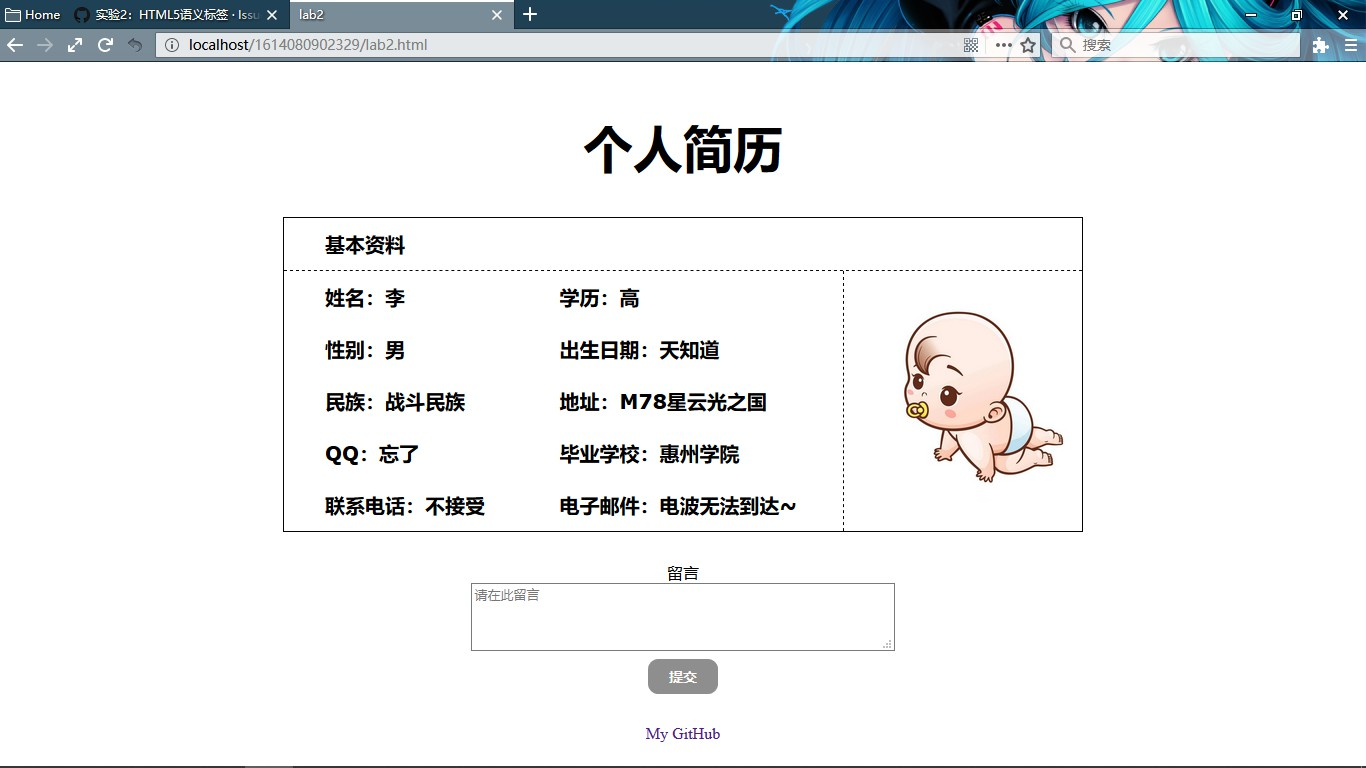
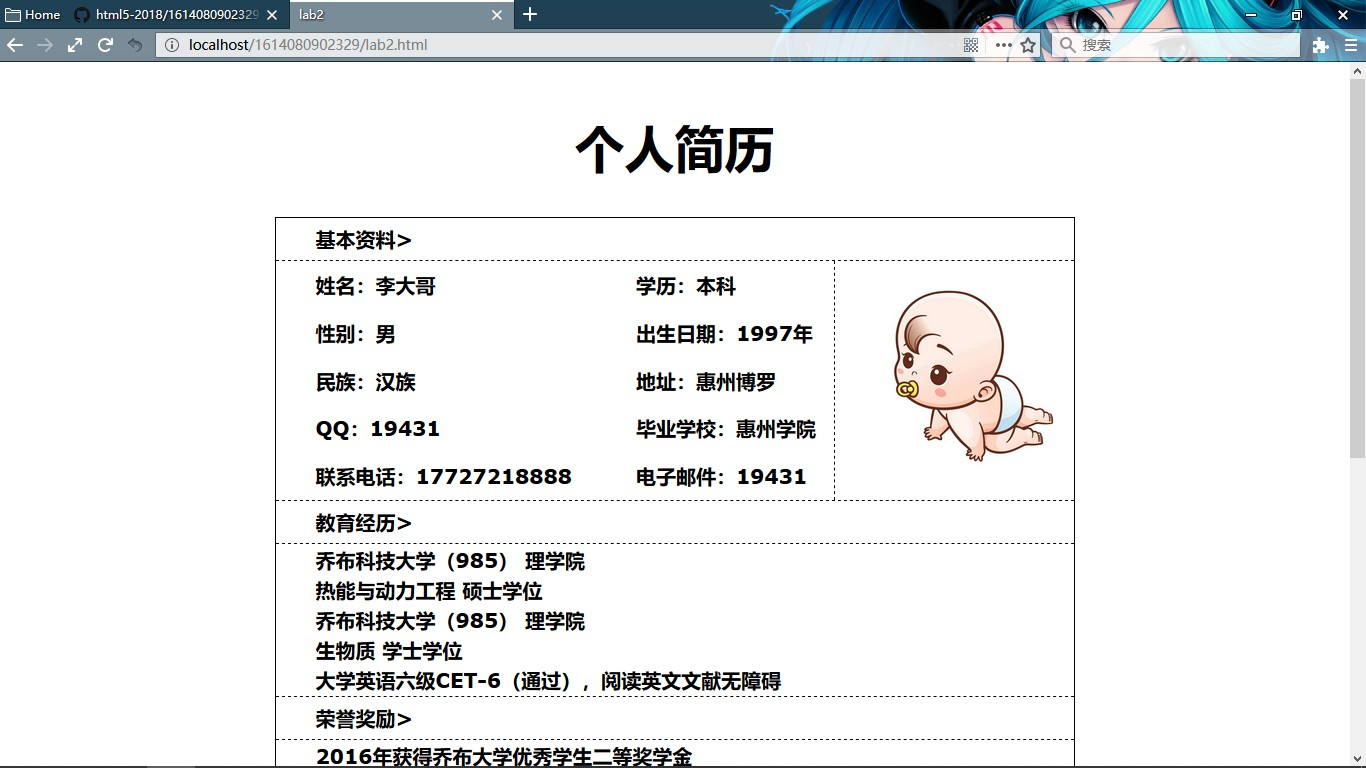
#2 update

diff --git a/1614080902329/lab2.html b/1614080902329/lab2.html
@@ -9,30 +9,93 @@
     <table cellspacing="0">
         <caption>个人简历</caption>
         <tr >
-            <td colspan="3" class="content-title">基本资料</td>
+            <td colspan="3" class="content-title">基本资料></td>
         </tr>
         <tr>
-            <td>姓名：李</td>
-            <td>学历：高</td>
+            <td>姓名：李大哥</td>
+            <td>学历：本科</td>
             <td rowspan="5" class="content-pic">
                 <img src="img/pic.jpg">
             </td>
         </tr>
         <tr>
             <td>性别：男</td>
-            <td>出生日期：天知道</td>
+            <td>出生日期：1997年</td>
         </tr>
         <tr>
-            <td>民族：战斗民族</td>
-            <td>地址：M78星云光之国</td>
+            <td>民族：汉族</td>
+            <td>地址：惠州博罗</td>
         </tr>
         <tr>
-            <td>QQ：忘了</td>
+            <td>QQ：19431</td>
             <td>毕业学校：惠州学院</td>
         </tr>
         <tr>
-            <td>联系电话：不接受</td>
-            <td>电子邮件：电波无法到达~</td>
+            <td>联系电话：17727218888</td>
+            <td>电子邮件：19431</td>
+        </tr>
+
+        <tr >
+            <td colspan="3" class="content-title bor-top">教育经历></td>
+        </tr>
+        <tr>
+            <td colspan="3" rowspan="5">
+                乔布科技大学（985） 理学院<br/>
+                热能与动力工程 硕士学位<br/>
+                乔布科技大学（985） 理学院<br/>
+                生物质 学士学位<br/>
+                大学英语六级CET-6（通过），阅读英文文献无障碍<br/>
+            </td>
+        </tr>
+        <tr>
+        </tr>
+        <tr>
+        </tr>
+        <tr>
+        </tr>
+        <tr>
+        </tr>
+
+        <tr >
+            <td colspan="3" class="content-title bor-top">荣誉奖励></td>
+        </tr>
+        <tr>
+            <td colspan="3" rowspan="4">
+                2016年获得乔布大学优秀学生二等奖学金<br/>
+                2017年乔布大学优秀毕业生<br/>
+                2018年乔布市理工科人文知识竞赛（优胜奖）<br/>
+            </td>
+        </tr>
+        <tr>
+        </tr>
+        <tr>
+        </tr>
+        <tr>
+        </tr>
+
+        <tr >
+            <td colspan="3" class="content-title bor-top">社会经历></td>
+        </tr>
+        <tr>
+            <td colspan="3" rowspan="3">
+                乔布冷机股份有限公司（设备测试员）2016-2017<br/>
+                乔布大学魔术社（干事（魔术指导））2017-2018
+            </td>
+        </tr>
+        <tr>
+        </tr>
+        <tr>
+        </tr>
+
+        <td colspan="3" class="content-title bor-top">特长爱好></td>
+        </tr>
+        <tr>
+            <td colspan="3" rowspan="2">
+                骑行，登山<br/>
+                爱好体育运动，游泳、篮球
+            </td>
+        </tr>
+        <tr>
         </tr>
     </table>
     <form id="com" action="#" method="get">

diff --git a/1614080902329/css/lab2-css.css b/1614080902329/css/lab2-css.css
@@ -9,11 +9,11 @@ table caption {
     padding-bottom: 30px;
 }
 tbody {
-    text-indent: 2em;
     font: bold 20px/1.5em verdana;
 }
 td {
-    height: 50px;
+    padding-left: 2em;
+    height: 2em;
 }
 .content-title {
     border-bottom: 1px dashed #050505;
@@ -58,4 +58,7 @@ a {
     width: 8em;
     text-decoration: none;
     font-size: 16px;
+}
+.bor-top {
+    border-top: 1px dashed #050505;
 }

diff --git a/1614080902329/Report/report2.md b/1614080902329/Report/report2.md
@@ -14,30 +14,93 @@
 <table cellspacing="0">
     <caption>个人简历</caption>
     <tr >
-        <td colspan="3" class="content-title">基本资料</td>
+        <td colspan="3" class="content-title">基本资料></td>
     </tr>
     <tr>
-        <td>姓名：李</td>
-        <td>学历：高</td>
+        <td>姓名：李大哥</td>
+        <td>学历：本科</td>
         <td rowspan="5" class="content-pic">
             <img src="img/pic.jpg">
         </td>
     </tr>
     <tr>
         <td>性别：男</td>
-        <td>出生日期：天知道</td>
+        <td>出生日期：1997年</td>
     </tr>
     <tr>
-        <td>民族：战斗民族</td>
-        <td>地址：M78星云光之国</td>
+        <td>民族：汉族</td>
+        <td>地址：惠州博罗</td>
     </tr>
     <tr>
-        <td>QQ：忘了</td>
+        <td>QQ：19431</td>
         <td>毕业学校：惠州学院</td>
     </tr>
     <tr>
-        <td>联系电话：不接受</td>
-        <td>电子邮件：电波无法到达~</td>
+        <td>联系电话：17727218888</td>
+        <td>电子邮件：19431</td>
+    </tr>
+
+    <tr >
+        <td colspan="3" class="content-title bor-top">教育经历></td>
+    </tr>
+    <tr>
+        <td colspan="3" rowspan="5">
+            乔布科技大学（985） 理学院<br/>
+            热能与动力工程 硕士学位<br/>
+            乔布科技大学（985） 理学院<br/>
+            生物质 学士学位<br/>
+            大学英语六级CET-6（通过），阅读英文文献无障碍<br/>
+        </td>
+    </tr>
+    <tr>
+    </tr>
+    <tr>
+    </tr>
+    <tr>
+    </tr>
+    <tr>
+    </tr>
+
+    <tr >
+        <td colspan="3" class="content-title bor-top">荣誉奖励></td>
+    </tr>
+    <tr>
+        <td colspan="3" rowspan="4">
+            2016年获得乔布大学优秀学生二等奖学金<br/>
+            2017年乔布大学优秀毕业生<br/>
+            2018年乔布市理工科人文知识竞赛（优胜奖）<br/>
+        </td>
+    </tr>
+    <tr>
+    </tr>
+    <tr>
+    </tr>
+    <tr>
+    </tr>
+
+    <tr >
+        <td colspan="3" class="content-title bor-top">社会经历></td>
+    </tr>
+    <tr>
+        <td colspan="3" rowspan="3">
+            乔布冷机股份有限公司（设备测试员）2016-2017<br/>
+            乔布大学魔术社（干事（魔术指导））2017-2018
+        </td>
+    </tr>
+    <tr>
+    </tr>
+    <tr>
+    </tr>
+
+    <td colspan="3" class="content-title bor-top">特长爱好></td>
+    </tr>
+    <tr>
+        <td colspan="3" rowspan="2">
+            骑行，登山<br/>
+            爱好体育运动，游泳、篮球
+        </td>
+    </tr>
+    <tr>
     </tr>
 </table>
 ```
@@ -69,11 +132,11 @@ table caption {
     padding-bottom: 30px;
 }
 tbody {
-    text-indent: 2em;
     font: bold 20px/1.5em verdana;
 }
 td {
-    height: 50px;
+    padding-left: 2em;
+    height: 2em;
 }
 .content-title {
     border-bottom: 1px dashed #050505;
@@ -119,11 +182,16 @@ a {
     text-decoration: none;
     font-size: 16px;
 }
+.bor-top {
+    border-top: 1px dashed #050505;
+}
 ```
 
 ## 3.实验结果
-* 实验截图
-![实验截图](https://github.com/OrangeHap/html5-2018/blob/master/1614080902329/Report/img/lab2_1.jpg)
+* 实验截图1
+![实验截图]()
+* 实验截图2
+![实验截图]()
 
 ## 4.实验体会 
 
